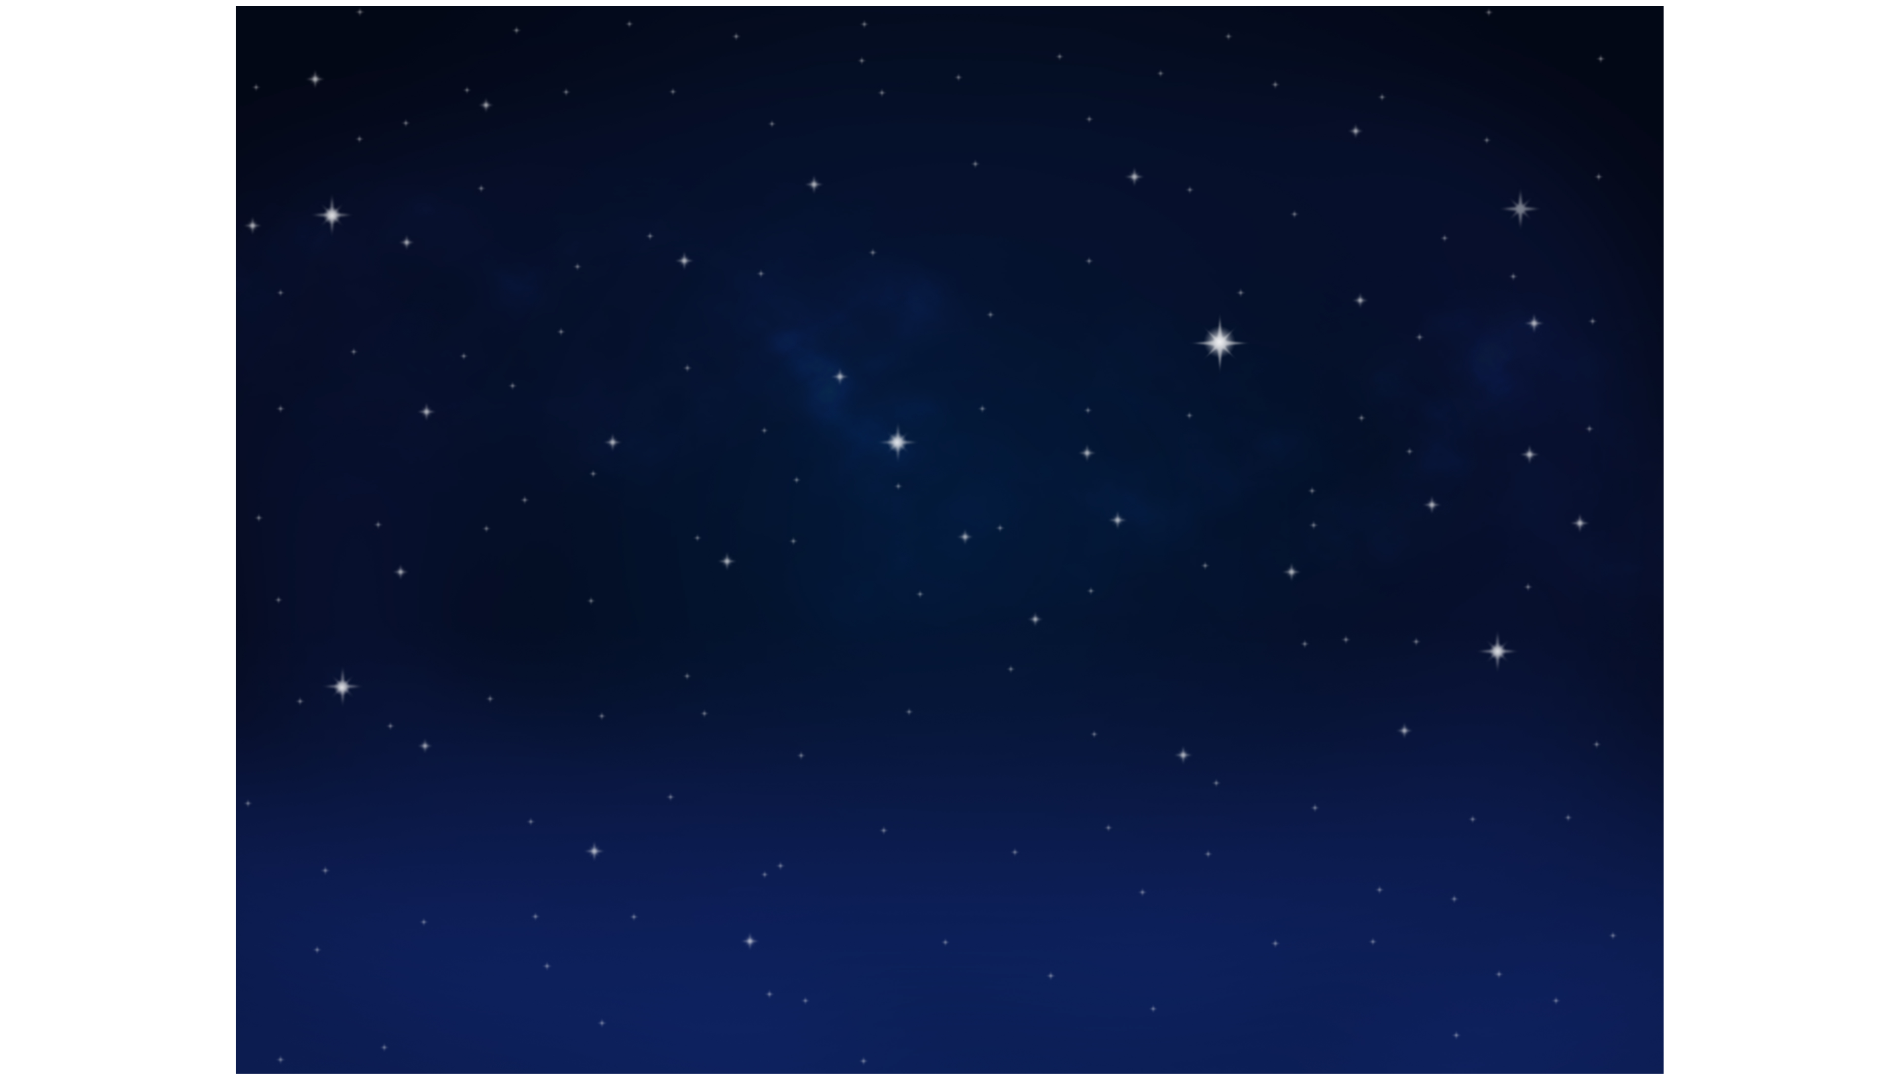
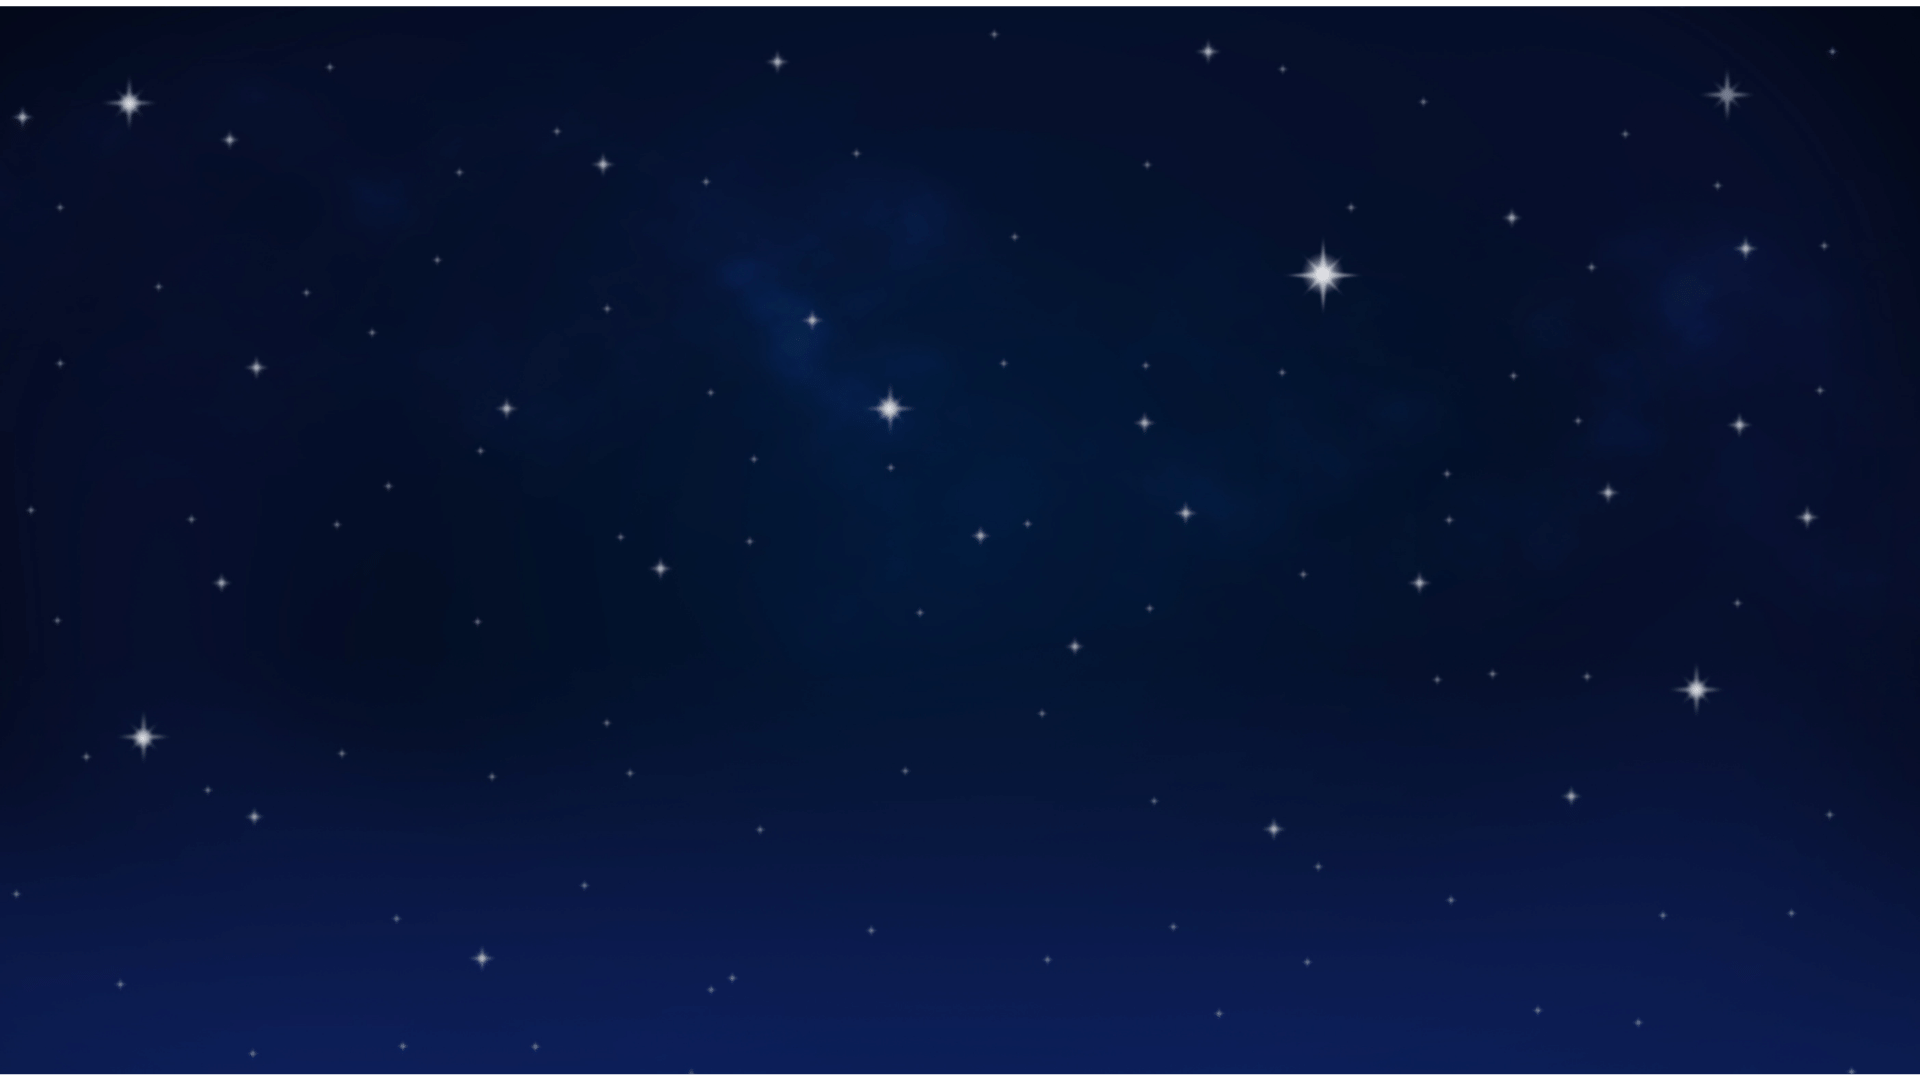
modified:   src/assets/bg.png 	modified:   src/components/contact/Contact.jsx 	modified:   src/components/header/Header.css 	modified:   src/components/header/Header.jsx 	modified:   src/index.css

diff --git a/src/components/header/Header.css b/src/components/header/Header.css
@@ -1,10 +1,7 @@
-
 header{
-    /* height: 100vh; */
-    /* padding-top: 5rem; */
-    /* margin-bottom: 10rem; */
     background-image: url("../../assets/bg.png");
-    background-position: center;
+    background-repeat: no-repeat;
+    background-size: cover;
 }
 
 small{
@@ -16,24 +13,12 @@ small{
     text-align: center;
     height: 100%;
     position: relative;
-    
     min-height: 100vh;
-    /* padding: 50px 40px; */
-    /* margin-top: 7px; */
+    padding: 50px 40px;
     display: grid;
     grid-template-columns: 60% 40%;
-    /* gap: 1rem; */
-    /* flex-direction: column; */
-    /* justify-content:center ; */
     align-items: center;
 }
-
-.text{
-    /* padding: 1rem; */
-    margin: 1rem;
-    width: auto;
-}
-
 
 
 /*=======buttons========*/
@@ -65,7 +50,6 @@ small{
 /*=======MyPicture========*/
 .header-container .logo{
     position: inherit;
-    /* margin-top: -50px; */
     height: 520px;
     width: 520px;
     display: flex;
@@ -73,17 +57,10 @@ small{
     align-items: center;
     border-radius: 50%;
     user-select: none;
-    /* margin-top: 15rem; */
-    /* background: linear-gradient(var(--color-primary), transparent);
-    width: 22rem;
-    height: 30rem;
-    position: absolute;
-    left: calc(50% -11rem);
-    border-radius: 12rem 12rem 0 0;
+    background: linear-gradient(90deg, rgba(80, 109, 227, 0.583), transparent);
+    border-radius: 14rem 0rem 0 10rem;
     overflow: hidden;
-    padding: 5rem 1.5rem 1.5rem 1.5rem; */
-
-
+    padding: 4rem 2rem 2rem 1.5rem;
 }
 
 .header-container .logo .mypicture{
@@ -220,23 +197,50 @@ small{
 @media screen and (max-width: 600px){
     header{
         height: 130vh;
+        width: auto;
+        /* background-image: none; */
+    }
+    html{
+
+        overflow-x: hidden;
     }
     .socials{
         display: none;
+        left: 0;
     }
     .header-container{
+        display: grid;
         grid-template-columns: 1fr;
-        /* width: auto; */
+        /* display: none; */
+        /* overflow-x: hidden; */
+    }
+    .text{
+        margin-left: -2.4rem;
     }
     .h1{
-        font-size: 2.8rem;
+        font-size: 1.8rem;
         /* margin-left: -6rem; */
     }
     .buttons{
     }
+    .container{
+        /* margin: 0 2rem; */
+    }
     .header-container .logo{
         width: auto;
+        /* display: none; */
         
+    }
+    .header-container .logo .circle{
+        /* width: auto; */
+        /* display: none; */
+        height: 60px;
+        width: 60px;
+    }
+    .header-container .logo .mypicture{
+        width: 100px;
+        height: 100px;
+        /* display: none; */
     }
     /* .header-container .logo .circle,
     .header-container .logo,

diff --git a/src/components/header/Header.jsx b/src/components/header/Header.jsx
@@ -2,6 +2,7 @@ import React, { useEffect, useState } from 'react';
 import './Header.css';
 import Buttons from './Buttons';
 import Mypicture from '../../assets/Mypicture.jpeg';
+import bg from '../../assets/bg.png';
 import Socials from './Socials';
 import { BsMouse } from 'react-icons/bs';
 import AnimatedLetters from '../AnimatedLetters/AnimatedLetters';
@@ -30,7 +31,7 @@ const Header = () => {
     }
 
     return (
-        <header>
+        <header >
             <div className="container header-container">
                 <div className='text'>
                     <h1 className='h1'>
@@ -49,7 +50,6 @@ const Header = () => {
                             idx={22} />
                     </h1>
                     <small>Hover/Touch above</small>
-                    {/* <h2>Frontend Developer </h2> */}
                     <Buttons />
                 </div>
                 <Socials />

diff --git a/src/components/contact/Contact.jsx b/src/components/contact/Contact.jsx
@@ -41,10 +41,10 @@ const Contact = () => {
                     <textarea name="message" rows="7" placeholder='Your Message' required></textarea>
                     <button type="submit" className='btn btn-primary'>Send Message</button>
                 </form>
-                <a href="#" className='scroll-down'>
+                {/* <a href="#" className='scroll-down'>
                     <hr />Scroll Up <BsMouse className='scroll' />
                     <hr />
-                </a>
+                </a> */}
             </div>
         </section>
     )

diff --git a/src/index.css b/src/index.css
@@ -7,8 +7,9 @@ body {
     color: var(--color-white);
     line-height: 1.7;
     font-family: 'Varela Round', sans-serif;
-    background-image: repeating-linear-gradient(90deg, rgba(88, 119, 160, 0.182), rgba(255, 255, 255, 0.109) 1px, transparent 1px, transparent 7px);
-    background-size: 20px;
+    /* background-image: repeating-linear-gradient(90deg, rgba(88, 119, 160, 0.182), rgba(255, 255, 255, 0.109) 1px, transparent 1px, transparent 7px); */
+    /* background-size: 20px; */
+
 }
 
 * {
